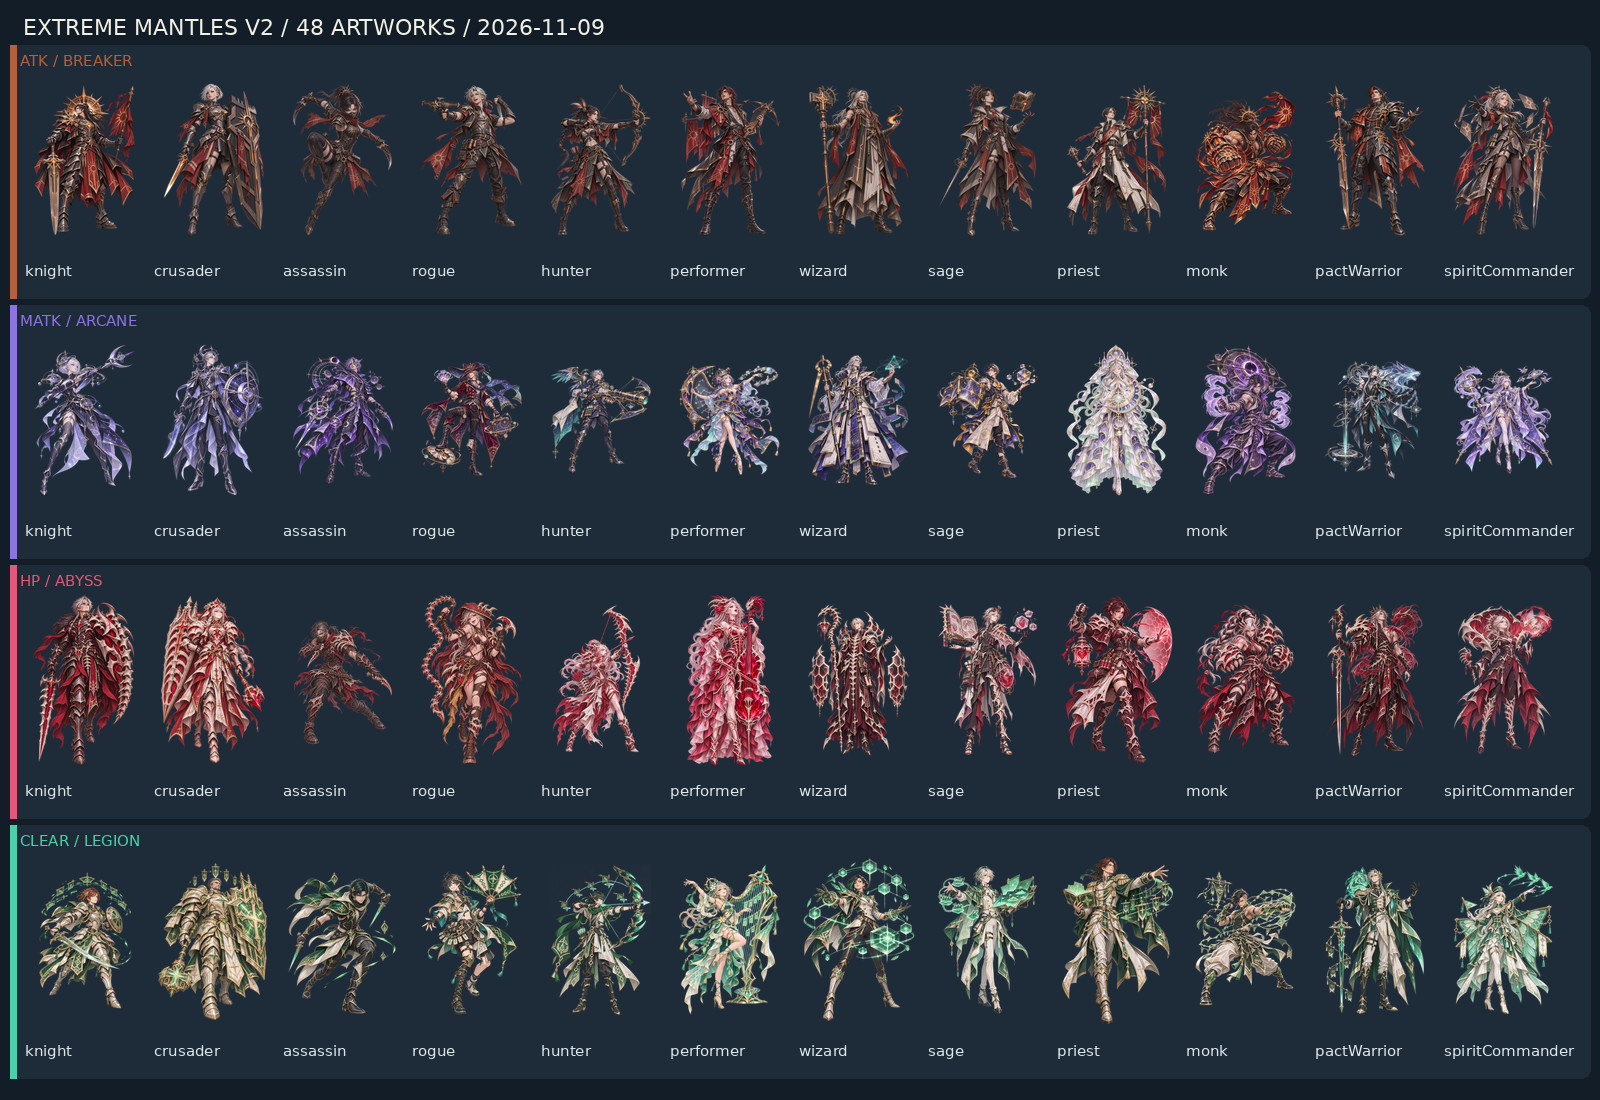
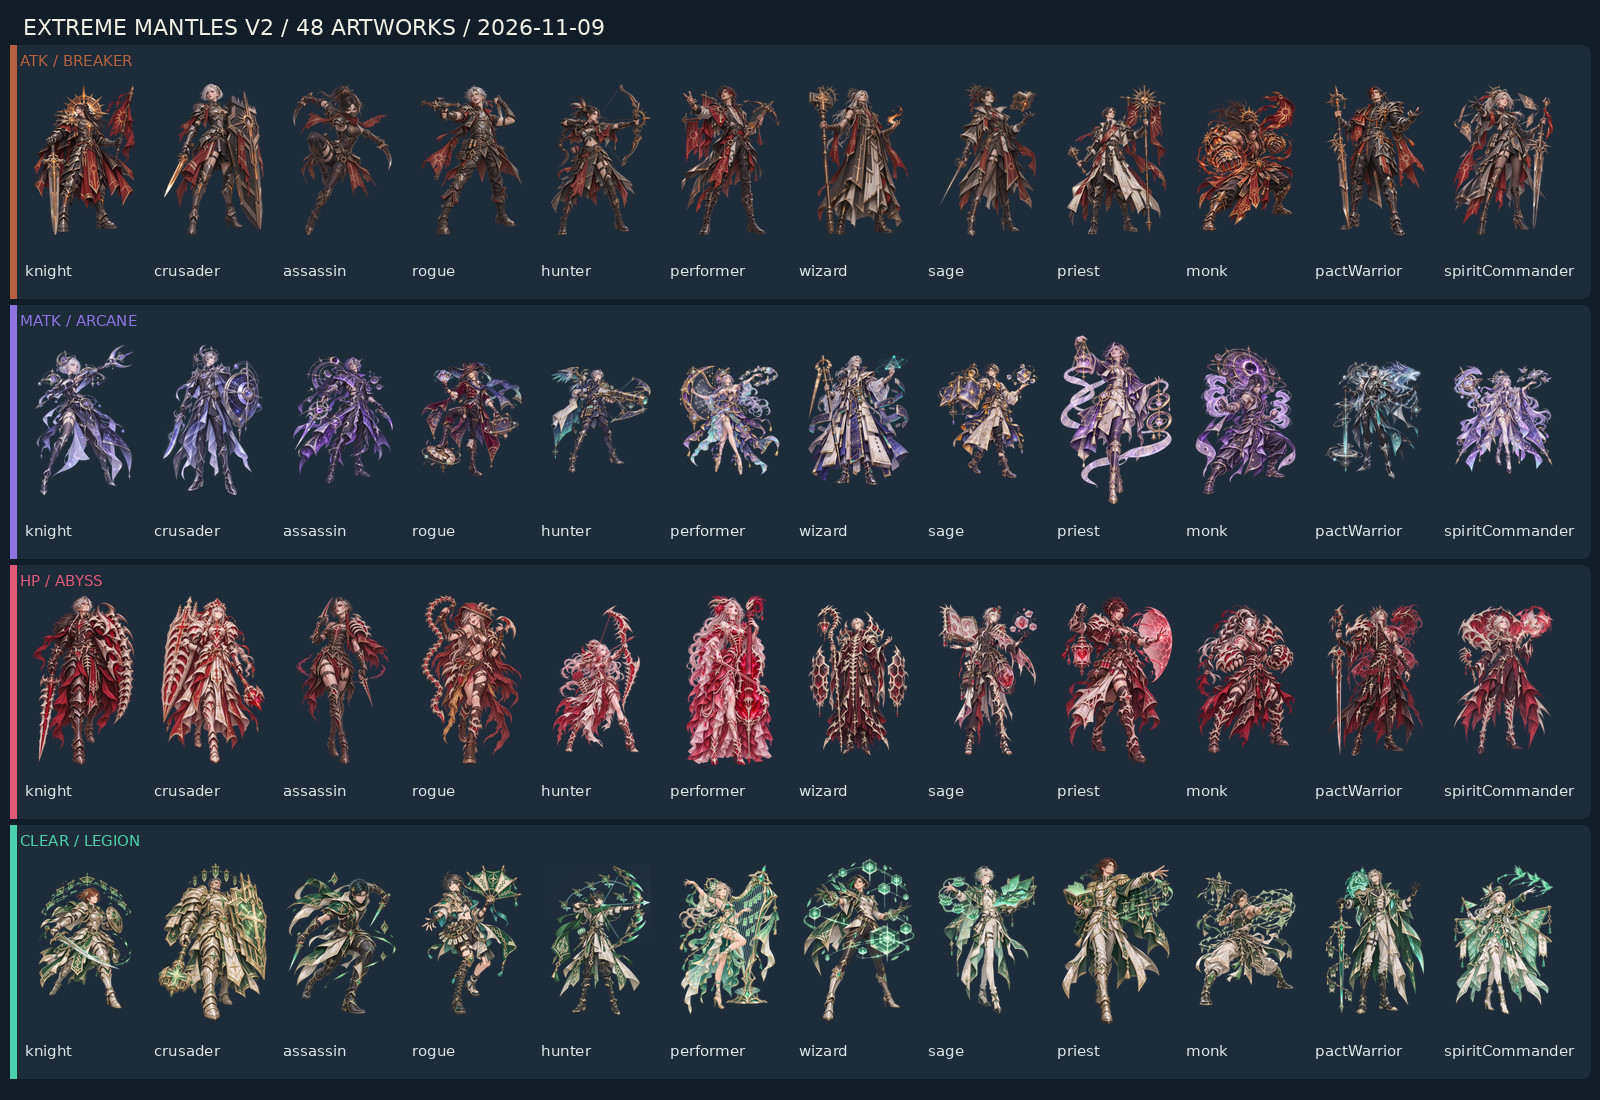
docs: refresh mantle sheets for HP assassin and MATK priest

Changed region(s): [[0.6562, 0.3091, 0.75, 0.4636], [0.1875, 0.5255, 0.25, 0.7109]]

diff --git a/docs/HANDOFF_EXTREME_MANTLES_V2_2026-11-08.md b/docs/HANDOFF_EXTREME_MANTLES_V2_2026-11-08.md
@@ -446,3 +446,9 @@
 - 冥界主教由銀白髮、超大星象教堂聖環與拖地婚紗裙改為深紫銀挑染短髮女性星詠祭司；立領紫白短聖儀外套、窄褲、長靴與不對稱星圖披肩，前踏操縱星界聖禱。
 - 施法焦點為左手懸吊的銀紫星核禮鐘、右側雙環星象祭鈴與飄揚銀河禱文，保留冥界的靛紫、象牙、金色精密厚塗，但移除與其他主教過像的巨型頭後聖環、拖地蓬裙與雙手祈禱姿勢。
 - 更新 `dist/assets/extreme/mantles-v2/matk-priest.webp`，1024×1536 透明 WebP，與 HP、CLEAR 主教的不同職業剪影清楚。兩張指定重製完畢，後續需刷新五張總覽、檢查素材與回歸測試；僅測試分支。
+
+## A1–A2 重製總覽同步及回歸（2026-11-09）
+
+- 使用 `scripts/art/build-extreme-mantle-sheets.py` 重建縮小版 48 張總覽與四系列短圖（5 份）；實際改變內容為 `hp-assassin` 與 `matk-priest` 對應格，其他 46 圖不動。
+- 48/48 圖檔存在、全部 1024×1536、48 個 SHA-256 均不同。`node --test tests/extreme-*.test.mjs` **36/36 通過**。
+- 按先前 GitHub 預覽灰色遮蓋的回報，仍保留短圖 2180×370 與完整縮圖 1600×1100，供使用者分別檢查；未合併 main 或更新正式版。
